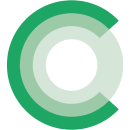
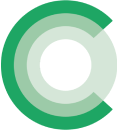
수정

diff --git a/c/css/casetify.css b/c/css/casetify.css
@@ -466,8 +466,8 @@ svg {
     position: absolute;
     top: 0;
     right: 0;
-    width: 220px;
-    height: 220px;
+    width: 210px;
+    height: 210px;
     background: url(/dollop-syrup/c/images/droptozerocrop.png) 50% 50% no-repeat;
   }
 
